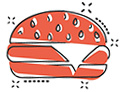
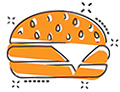
se agrega icono de hamburguesas en inicio

diff --git a/index.html b/index.html
@@ -135,12 +135,17 @@
 
       <div class="row protes">
         <div class="col sm-4 protetexto">
+          <img src="./assets/icono-burger-amarilla.jpg">
           <h3 class="protes">Soya</h3>
         </div>
         <div class="col sm-4 protetexto ">
+          <img src="./assets/icono-burger-naranja.jpg">
+
           <h3>Garbanzo</h3>
         </div>
         <div class="col sm-4 protetexto">
+          <img src="./assets/icono-burger-roja.jpg">
+
           <h3>Seitan</h3>
         </div>
       </div>
